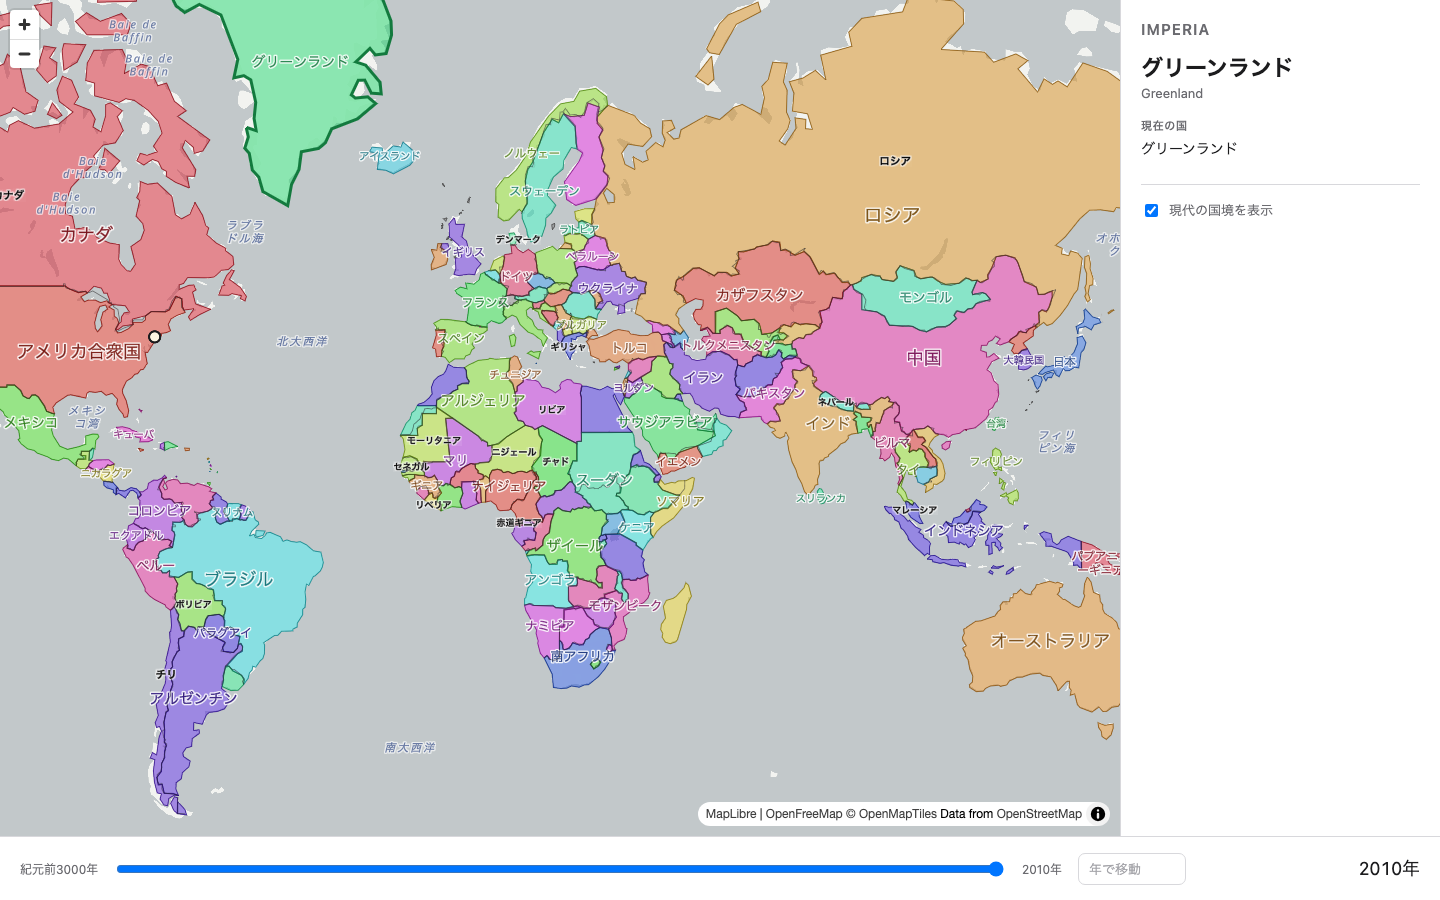
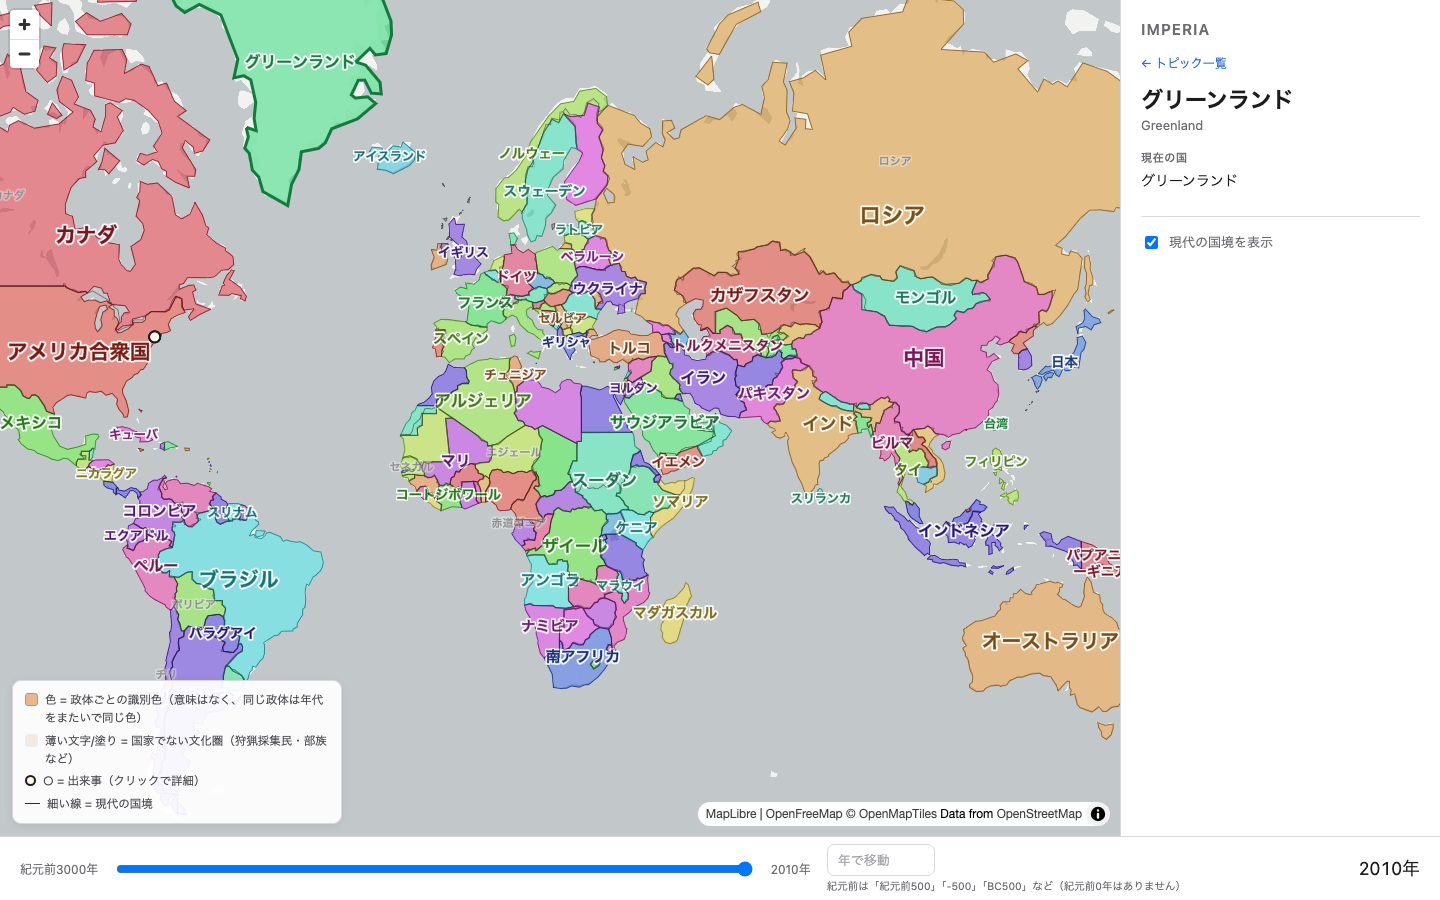
test: cover topics data and the new label hierarchy
16 node:test cases for topics.json: full era coverage at 4-7 each, field
shape with no stray keys, the 30/120 character limits, ja.wikipedia URLs,
every polity resolving against its own era file, the anachronism sweep,
and renderTopics escaping and falling back cleanly.

The screenshot script gains a bc1 target and now asserts the label
hierarchy numerically (basemap 9.5px #8a8a8a vs polity 12px bold, city
labels gated to zoom >= 4), the legend and year-format hint, the topics
list, and the topic -> polity -> back round trip. The mobile check was
updated for the collapsed-handle sheet, which the old assertion
(correctly) failed once the sheet stopped being fully hidden.

One assertion was relaxed after it fired on real data: 1492 uses
Castille for both Columbus and the fall of Granada, which is correct
history, so the rule now allows a polity twice per era but not more.

Claude-Session: https://claude.ai/code/session_011jmUHQvJfLb2fnRPfpvuRt

diff --git a/test/topics.test.js b/test/topics.test.js
@@ -1,0 +1,171 @@
+import test from 'node:test';
+import assert from 'node:assert/strict';
+import { readFileSync } from 'node:fs';
+import { fileURLToPath } from 'node:url';
+import { dirname, join, resolve } from 'node:path';
+
+import { ERA_IDS, ERAS, formatYear } from '../src/eras.js';
+import { renderTopics } from '../src/panel.js';
+
+const root = resolve(dirname(fileURLToPath(import.meta.url)), '..');
+const readJson = (p) => JSON.parse(readFileSync(join(root, p), 'utf8'));
+const topics = readJson('data/topics.json');
+const len = (s) => Array.from(String(s)).length;
+
+test('topics.json covers every era with 4-7 topics', () => {
+  for (const id of ERA_IDS) {
+    assert.ok(Array.isArray(topics[id]), `era ${id} has no topics`);
+    assert.ok(
+      topics[id].length >= 4 && topics[id].length <= 7,
+      `era ${id} has ${topics[id].length} topics, expected 4-7`,
+    );
+  }
+});
+
+test('topics.json has no eras that are not in the era list', () => {
+  const known = new Set(ERA_IDS);
+  const stray = Object.keys(topics).filter((k) => !known.has(k));
+  assert.deepEqual(stray, []);
+});
+
+test('every topic has the required shape and no stray fields', () => {
+  const allowed = new Set(['title_ja', 'body_ja', 'polity', 'wiki_url']);
+  for (const [id, list] of Object.entries(topics)) {
+    list.forEach((t, i) => {
+      const at = `${id}[${i}]`;
+      assert.equal(typeof t.title_ja, 'string', `${at}: title_ja`);
+      assert.equal(typeof t.body_ja, 'string', `${at}: body_ja`);
+      assert.equal(typeof t.wiki_url, 'string', `${at}: wiki_url`);
+      assert.ok(t.title_ja.trim(), `${at}: empty title`);
+      assert.ok(t.body_ja.trim(), `${at}: empty body`);
+      const stray = Object.keys(t).filter((k) => !allowed.has(k));
+      assert.deepEqual(stray, [], `${at}: unexpected fields`);
+    });
+  }
+});
+
+test('topic text stays within the length limits', () => {
+  for (const [id, list] of Object.entries(topics)) {
+    list.forEach((t, i) => {
+      assert.ok(len(t.title_ja) <= 30, `${id}[${i}]: title is ${len(t.title_ja)} chars`);
+      assert.ok(len(t.body_ja) <= 120, `${id}[${i}]: body is ${len(t.body_ja)} chars`);
+    });
+  }
+});
+
+test('every topic links to Japanese Wikipedia', () => {
+  for (const [id, list] of Object.entries(topics)) {
+    list.forEach((t, i) => {
+      assert.match(t.wiki_url, /^https:\/\/ja\.wikipedia\.org\/wiki\/.+/, `${id}[${i}]`);
+    });
+  }
+});
+
+test('every polity named by a topic exists in that era file', () => {
+  const missing = [];
+  for (const id of ERA_IDS) {
+    const era = readJson(`data/eras/${id}.geojson`);
+    const names = new Set(
+      era.features
+        .map((f) => f.properties?.NAME)
+        .filter((n) => typeof n === 'string' && n.trim())
+        .map((n) => n.trim()),
+    );
+    for (const t of topics[id]) {
+      if (t.polity === undefined) continue;
+      assert.equal(typeof t.polity, 'string', `${id}: polity must be a string`);
+      if (!names.has(t.polity.trim())) missing.push(`${id}: "${t.polity}"`);
+    }
+  }
+  assert.deepEqual(missing, [], 'topics must only reference polities present in their own era');
+});
+
+test('most topics are linked to a polity so the map can be driven from the panel', () => {
+  const all = Object.values(topics).flat();
+  const linked = all.filter((t) => t.polity).length;
+  assert.ok(linked / all.length > 0.7, `only ${linked}/${all.length} topics name a polity`);
+});
+
+test('topic bodies do not mention a year far from their era', () => {
+  const yearOf = Object.fromEntries(ERAS.map((e) => [e.id, e.year]));
+  const offenders = [];
+  for (const [id, list] of Object.entries(topics)) {
+    for (const t of list) {
+      const text = `${t.title_ja} ${t.body_ja}`;
+      const years = [
+        ...[...text.matchAll(/前(\d{1,4})年/g)].map((m) => -Number(m[1])),
+        ...[...text.matchAll(/(?<!前)(\d{3,4})年/g)].map((m) => Number(m[1])),
+      ];
+      for (const y of years) {
+        if (Math.abs(y - yearOf[id]) > 60) offenders.push(`${id}(${yearOf[id]}): ${y} in "${t.title_ja}"`);
+      }
+    }
+  }
+  assert.deepEqual(offenders, [], 'a topic cites a year far outside its era');
+});
+
+test('topics are globally spread, not one region repeated', () => {
+  // 同じ断面のなかで題名が重複していないこと
+  for (const [id, list] of Object.entries(topics)) {
+    const titles = list.map((t) => t.title_ja);
+    assert.equal(new Set(titles).size, titles.length, `${id}: duplicate topic titles`);
+    // 同じ政体が2回出るのは正当（1492年はコロンブスもグラナダ陥落もカスティーリャ）。
+    // ただし1つの政体が断面を占領していたら、その断面は視野が狭い。
+    const counts = new Map();
+    for (const t of list) {
+      if (!t.polity) continue;
+      counts.set(t.polity, (counts.get(t.polity) ?? 0) + 1);
+    }
+    for (const [polity, n] of counts) {
+      assert.ok(n <= 2, `${id}: ${polity} appears in ${n} of ${list.length} topics`);
+    }
+  }
+});
+
+// --- 描画 ---
+
+function fakeEl() {
+  return {
+    innerHTML: '',
+    prepend() {},
+  };
+}
+
+test('renderTopics lists every topic with its Japanese polity name', () => {
+  const el = fakeEl();
+  const n = renderTopics(el, '紀元前1年', [
+    { title_ja: 'アウグストゥス', body_ja: '本文', polity: 'Roman Empire', wiki_url: 'https://ja.wikipedia.org/wiki/X' },
+    { title_ja: '王莽', body_ja: '本文2', wiki_url: 'https://ja.wikipedia.org/wiki/Y' },
+  ], { 'Roman Empire': 'ローマ帝国' });
+  assert.equal(n, 2);
+  assert.match(el.innerHTML, /紀元前1年のトピック/);
+  assert.match(el.innerHTML, /アウグストゥス/);
+  assert.match(el.innerHTML, /ローマ帝国/, 'polity shown in Japanese');
+  assert.match(el.innerHTML, /data-polity="Roman Empire"/, 'raw NAME kept for map lookup');
+  // polity の無いトピックにはボタンの data 属性が付かない
+  assert.equal((el.innerHTML.match(/data-polity=/g) || []).length, 1);
+});
+
+test('renderTopics escapes user-visible text', () => {
+  const el = fakeEl();
+  renderTopics(el, '100年', [
+    { title_ja: '<script>x</script>', body_ja: 'a & b', wiki_url: 'https://ja.wikipedia.org/wiki/Z' },
+  ]);
+  assert.ok(!el.innerHTML.includes('<script>'), 'title must be escaped');
+  assert.match(el.innerHTML, /a &amp; b/);
+});
+
+test('renderTopics degrades gracefully with no topics', () => {
+  const el = fakeEl();
+  assert.equal(renderTopics(el, '100年', []), 0);
+  assert.match(el.innerHTML, /100年/);
+  assert.match(el.innerHTML, /登録されていません/);
+});
+
+test('every era label used by the panel is well formed', () => {
+  for (const era of ERAS) {
+    const el = fakeEl();
+    renderTopics(el, formatYear(era.year), topics[era.id], {});
+    assert.match(el.innerHTML, /のトピック/, `era ${era.id} header`);
+  }
+});

diff --git a/README.md b/README.md
@@ -84,6 +84,15 @@ OpenMapTiles の地物は `name:ja` を持っているので、これで「Deuts
 版図の塗りは**下地のラベルより下**に差し込む（`addEraLayers(map, firstSymbolLayerId())`）。
 上に載せると不透明度 0.55 の塗りが地名を覆って読めなくなる。
 
+## ラベルの主従
+
+このサイトの主役は歴史上の政体であって現代の地名ではない。下地のラベルを
+黒・通常サイズのまま残すと、政体名と同じ重さで張り合ってしまい地図が読めない。
+
+- 政体名: 太字 (Noto Sans Bold)、面積に応じて 12〜22px、その政体の濃い色、太い白縁
+- 現代の地名: 9.5px（国名のみ 11px）、`#8a8a8a`、細い白縁
+- 都市・町・村・水域名・道路名はズーム4未満では出さない。世界表示では国名だけが残る
+
 ## 地図上の政体名
 
 政体名は `data/names.ja.json` を引いて地図に直接描く。クリックしなくても
@@ -99,6 +108,20 @@ OpenMapTiles の地物は `name:ja` を持っているので、これで「Deuts
 
 > 元データには末尾に空白が付いた NAME (`"Pomeranian culture "`) が混ざっている。
 > 対訳表のキーは trim 済みなので、`decorateEra` で NAME を trim して正規化している。
+
+## 断面ごとのトピック
+
+`data/topics.json` に、48断面それぞれ 4〜7 件の「その年代に世界で何が起きていたか」を
+持たせている。ポリゴンを選んでいない間、右パネルの既定表示がこれになる。
+
+各トピックは `{title_ja, body_ja, polity?, wiki_url}`。`polity` はその断面のデータに
+**実在する NAME** でなければならず、テストが全断面ぶん検証する。`polity` 付きの
+トピックをクリックすると、その版図を強調して地図が寄る。政体の詳細からは
+「← トピック一覧」で戻れる。
+
+地域の偏りを避けるため、東アジア・南アジア・中東・アフリカ・南北アメリカ・
+ヨーロッパ・草原の遊牧民を横断するよう書いてある。年代の取り違えを防ぐテストとして、
+本文が引用する西暦が断面の年から60年以上離れていたら失敗するようにしてある。
 
 ## 非国家ポリゴンの扱い
 
@@ -150,6 +173,7 @@ data/names.ja.json            NAME → 日本語名（全2548件）
 data/modern.json              NAME → 現在の国（面積上位216件）
 data/nonstate.json            非国家判定の規則
 data/events.json              主要な出来事110件
+data/topics.json              断面ごとのトピック（48断面 × 4〜7件）
 src/nonstate.js               非国家判定
 src/labelpoint.js             政体名ラベルの代表点計算
 src/events.js                 断面に対応する出来事の選別

diff --git a/docs/superpowers/specs/2026-08-23-imperia-design.md b/docs/superpowers/specs/2026-08-23-imperia-design.md
@@ -42,6 +42,12 @@
 - 手書き。まず主要政体（ローマ、ペルシア、漢、モンゴル等）から埋め、未登録は「（未登録）」と表示
 - 版図ポリゴンと現代国境の空間交差から自動生成する案は精度が低い（にじんだ境界×粗い国境）ため採らない。ただし下書き生成には使ってよい
 
+### 断面ごとのトピック `data/topics.json`
+- 各断面に 4〜7 件。その年代に世界で何が起きていたかを地域横断で並べる
+- 形式: `{title_ja (30字以内), body_ja (120字以内), polity (その断面の NAME・任意), wiki_url}`
+- `polity` があるトピックはクリックでその版図を強調して地図を寄せる
+- 何も選んでいない間の右パネルの既定表示
+
 ### 出来事 `data/events.json`
 - 自前キュレーション。戦い・条約・建国・滅亡など主要100件から
 - 形式: `{year, lat, lng, title_ja, summary_ja, source_url}`
@@ -72,6 +78,9 @@
   （117 → 100年の断面）。寄せた時は「→ 100年の断面を表示」と小さく出す
 - 断面データは選択時に遅延ロード、ロード済みはメモリにキャッシュ
 - 政体ごとの塗り色は `NAME` のハッシュから生成し、断面をまたいで同じ政体は同じ色になるようにする（変遷を目で追えるため）
+- **主役は歴史上の政体名**。政体名は太字・大きめ・その政体の色で描き、下地の現代地名は
+  小さく薄い灰色に落とす。都市名はズーム4未満では出さない（世界表示では国名だけ）
+- 左下に凡例を常時表示（色の意味・薄い塗り・出来事の点・現代国境）。モバイルは畳める
 - モバイルはパネルを下からのシートにする。最初はデスクトップ優先
 
 ## 技術
@@ -89,6 +98,7 @@
   data/modern-borders.geojson  Natural Earth 110m
   data/names.ja.json
   data/modern.json
+  data/topics.json      断面ごとのトピック
   data/events.json
   scripts/build-data.sh  元データ取得 + mapshaper 簡略化
   scripts/extract-names.js  NAME ユニーク抽出（対訳の下書き用）
